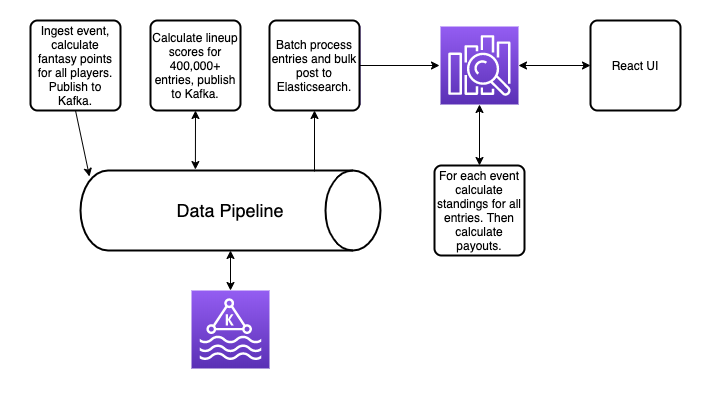
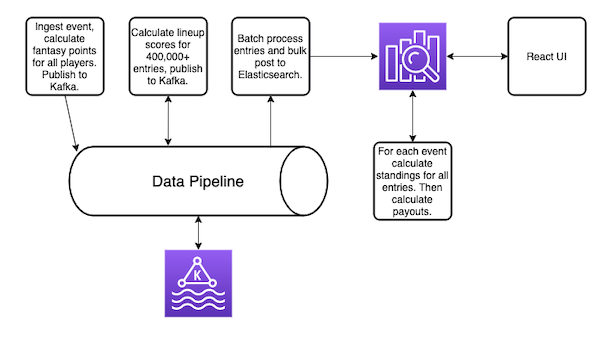
Resize image for README

diff --git a/README.md b/README.md
@@ -4,8 +4,10 @@ An elixir app that allows "replaying" of Daily Fantasy Contests to see what the 
 
 To process this data, the broadway library was used which made it easy to process events using Kafka. After all the events are processed, they are inserted into Elasticsearch.
 
+
 ## Demo
-![Demo](demo.gif) ![Data Flow](data_flow.png)
+![Demo](demo.gif)<img src="data_flow.png" align="top">
+
 
 ### Requirements
 * Elixir
